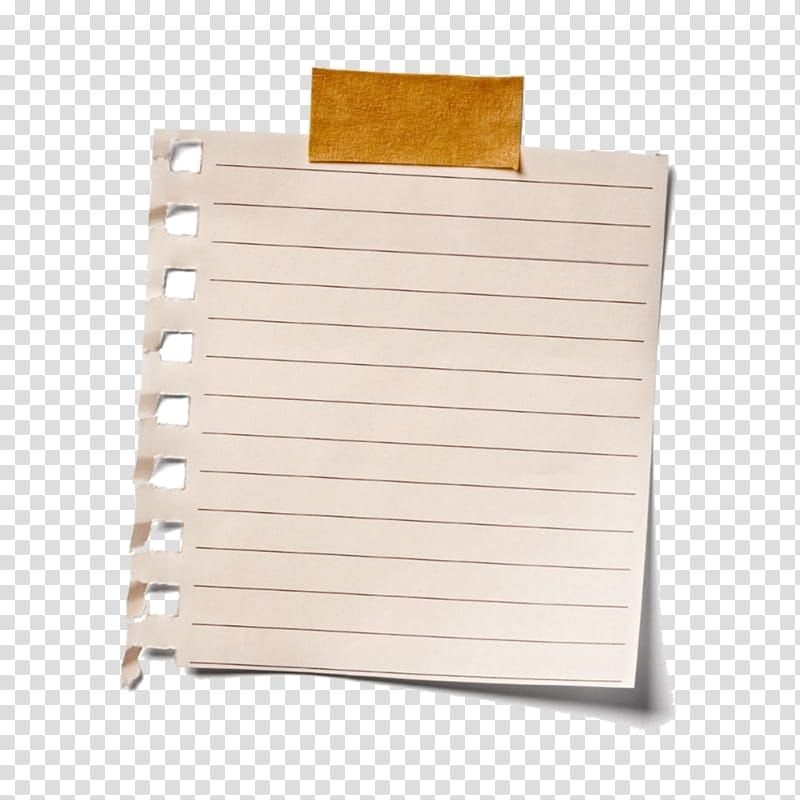
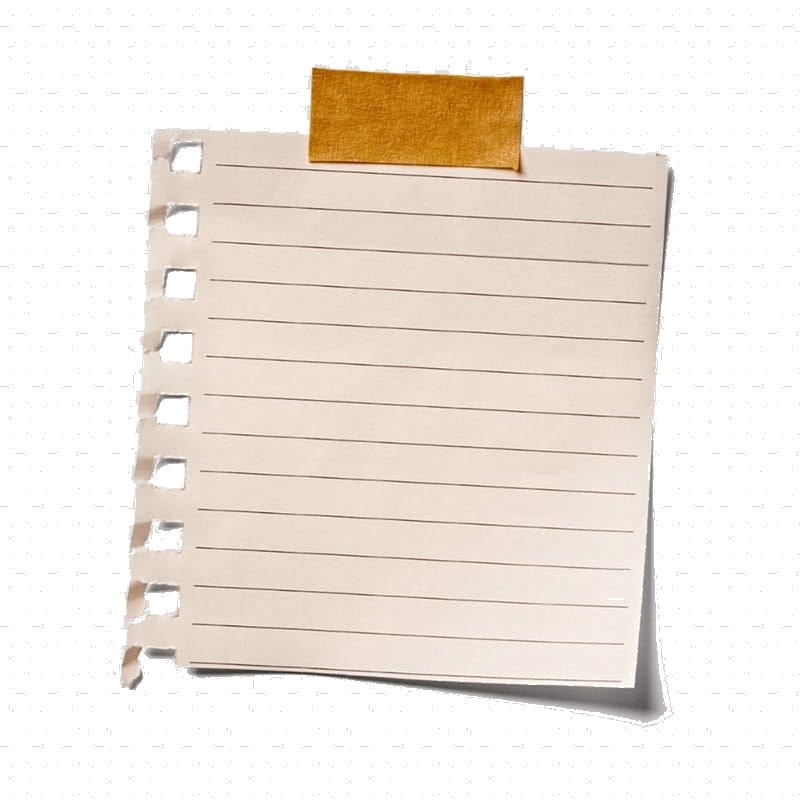
style: Clean paper_note_4 transparency, refine text layout & arrange notes into 4-corner orbital balance around dustbin

Changed region(s): [[0.0, 0.0, 1.0, 1.0], [0.1875, 0.7188, 0.2188, 0.7812]]

diff --git a/src/components/StickyNote.tsx b/src/components/StickyNote.tsx
@@ -8,8 +8,9 @@ export interface StickyNoteItem {
   title?: string;
   content: string;
   paperType: 1 | 2 | 3 | 4; // 1: grid tape strip, 2: kraft torn grid, 3: index card paperclip, 4: notebook torn sheet
-  rotation: number; // degrees e.g. -7, 5, -4
+  rotation: number; // degrees e.g. -6, 5, -4
   positionClass: string; // tailwind absolute position
+  floatDelay?: number;
 }
 
 export function StickyNote({ item }: { item: StickyNoteItem }) {
@@ -18,28 +19,28 @@ export function StickyNote({ item }: { item: StickyNoteItem }) {
   // Custom padding & sizing per paper texture type to align text perfectly inside paper boundaries
   const layoutConfigs = {
     1: {
-      width: "w-52 sm:w-64",
-      padding: "px-6 py-5",
-      titleColor: "text-amber-900",
+      width: "w-48 sm:w-56 md:w-60",
+      padding: "px-5 py-4",
+      titleColor: "text-amber-900 font-extrabold tracking-wider",
       textColor: "text-zinc-800 font-mono text-xs sm:text-sm font-semibold leading-snug",
     },
     2: {
-      width: "w-48 sm:w-56",
-      padding: "pt-8 pb-6 px-6",
-      titleColor: "text-stone-900",
-      textColor: "text-zinc-900 font-mono text-xs sm:text-sm font-medium leading-relaxed",
+      width: "w-44 sm:w-52 md:w-56",
+      padding: "pt-7 pb-5 px-5",
+      titleColor: "text-amber-950 font-black tracking-widest",
+      textColor: "text-neutral-950 font-mono text-xs sm:text-sm font-bold leading-tight drop-shadow-xs",
     },
     3: {
-      width: "w-52 sm:w-60",
-      padding: "pt-7 pb-5 px-6",
-      titleColor: "text-rose-900",
-      textColor: "text-slate-900 font-sans text-xs sm:text-sm font-medium leading-relaxed",
+      width: "w-48 sm:w-56 md:w-60",
+      padding: "pt-6 pb-4 px-6",
+      titleColor: "text-rose-900 font-extrabold tracking-wider",
+      textColor: "text-slate-900 font-sans text-xs sm:text-sm font-semibold leading-snug",
     },
     4: {
-      width: "w-48 sm:w-56",
-      padding: "pt-9 pb-6 px-6",
-      titleColor: "text-amber-950",
-      textColor: "text-zinc-900 font-mono text-xs sm:text-sm font-medium leading-relaxed",
+      width: "w-44 sm:w-52 md:w-56",
+      padding: "pt-8 pb-5 px-5",
+      titleColor: "text-amber-950 font-extrabold tracking-wider",
+      textColor: "text-zinc-900 font-mono text-xs sm:text-sm font-semibold leading-snug",
     },
   };
 
@@ -47,17 +48,34 @@ export function StickyNote({ item }: { item: StickyNoteItem }) {
 
   return (
     <motion.div
-      initial={{ opacity: 0, scale: 0.85, rotate: item.rotation - 5 }}
-      whileInView={{ opacity: 1, scale: 1, rotate: item.rotation }}
+      initial={{ opacity: 0, scale: 0.8, y: 20, rotate: item.rotation - 4 }}
+      whileInView={{ opacity: 1, scale: 1, y: 0, rotate: item.rotation }}
       whileHover={{ scale: 1.08, rotate: 0, zIndex: 40 }}
-      transition={{ type: "spring", stiffness: 350, damping: 22 }}
+      transition={{
+        type: "spring",
+        stiffness: 300,
+        damping: 20,
+        delay: item.floatDelay || 0,
+      }}
       viewport={{ once: true }}
-      className={`absolute ${item.positionClass} ${config.width} cursor-pointer select-none z-20 pointer-events-auto filter drop-shadow-md hover:drop-shadow-xl transition-all duration-200`}
+      className={`absolute ${item.positionClass} ${config.width} cursor-pointer select-none z-20 pointer-events-auto filter drop-shadow-md hover:drop-shadow-2xl transition-all duration-300`}
       style={{
         transformOrigin: "center center",
       }}
     >
-      <div className="relative w-full h-auto">
+      {/* Subtle Floating Ambient Animation */}
+      <motion.div
+        animate={{
+          y: [0, -6, 0],
+        }}
+        transition={{
+          duration: 4,
+          repeat: Infinity,
+          ease: "easeInOut",
+          delay: item.floatDelay ? item.floatDelay * 2 : 0,
+        }}
+        className="relative w-full h-auto"
+      >
         {/* Photorealistic Paper Texture Image */}
         <img
           src={noteSrc}
@@ -69,7 +87,7 @@ export function StickyNote({ item }: { item: StickyNoteItem }) {
         {/* Text Overlay Positioned Over Paper Surface */}
         <div className={`absolute inset-0 flex flex-col justify-center ${config.padding}`}>
           {item.title && (
-            <div className={`font-mono text-[10px] uppercase tracking-wider font-extrabold mb-1 ${config.titleColor}`}>
+            <div className={`font-mono text-[9px] sm:text-[10px] uppercase mb-1 ${config.titleColor}`}>
               {item.title}
             </div>
           )}
@@ -77,7 +95,7 @@ export function StickyNote({ item }: { item: StickyNoteItem }) {
             {item.content}
           </p>
         </div>
-      </div>
+      </motion.div>
     </motion.div>
   );
 }

diff --git a/src/app/page.tsx b/src/app/page.tsx
@@ -27,16 +27,18 @@ const STICKY_NOTES: StickyNoteItem[] = [
     title: "📌 Quick Note",
     content: "Each paper ball represents a tech skill I build apps with.",
     paperType: 1,
-    rotation: -8,
-    positionClass: "top-2 left-[1%] sm:left-[5%] md:left-[8%]",
+    rotation: -6,
+    positionClass: "top-2 left-[0%] sm:left-[2%] md:left-[4%]",
+    floatDelay: 0,
   },
   {
     id: "note-2",
     title: "💡 Physics Fun",
     content: "Drag & toss paper balls out of the bin to test 3D physics!",
     paperType: 2,
-    rotation: 7,
-    positionClass: "top-4 right-[1%] sm:right-[5%] md:right-[8%]",
+    rotation: 5,
+    positionClass: "top-4 right-[0%] sm:right-[2%] md:right-[4%]",
+    floatDelay: 0.15,
   },
   {
     id: "note-3",
@@ -44,23 +46,17 @@ const STICKY_NOTES: StickyNoteItem[] = [
     content: "React, Next.js, WebGL, Three.js, Python, Docker & PostgreSQL.",
     paperType: 3,
     rotation: -5,
-    positionClass: "top-[36%] left-[-2%] sm:left-[2%] md:left-[5%] hidden sm:block",
+    positionClass: "top-[48%] left-[-2%] sm:left-[1%] md:left-[3%] hidden sm:block",
+    floatDelay: 0.3,
   },
   {
     id: "note-4",
     title: "✨ 3D Depth",
     content: "60 FPS WebGL depth z-splitting clip planes immersion.",
     paperType: 4,
-    rotation: 9,
-    positionClass: "top-[40%] right-[-2%] sm:right-[2%] md:right-[5%] hidden sm:block",
-  },
-  {
-    id: "note-5",
-    title: "📄 Page Bounds",
-    content: "Tossed paper balls land smoothly on the page floor.",
-    paperType: 1,
-    rotation: -4,
-    positionClass: "bottom-10 left-[14%] md:left-[20%] hidden md:block",
+    rotation: 7,
+    positionClass: "top-[48%] right-[-2%] sm:right-[1%] md:right-[3%] hidden sm:block",
+    floatDelay: 0.45,
   },
 ];
 
